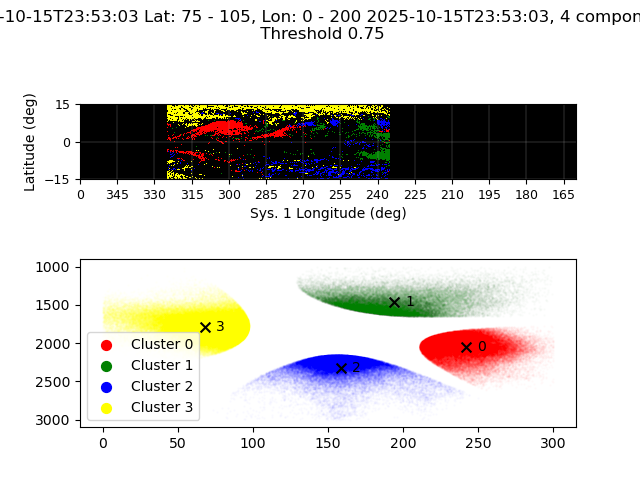
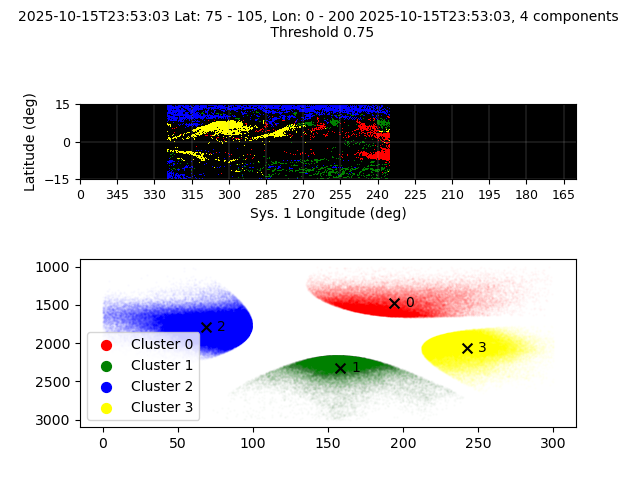
formatting: make figure title fontsize smaller

diff --git a/scripts/processes.py b/scripts/processes.py
@@ -24,7 +24,7 @@ def output_cluster_map_and_plot(date, keywords, param_ranges,
     print("plotting...")
     MP.create_cluster_map(axis[0], n_comp, pred, input_arr, subset_shape, latRng, lngRng, cmap, cm_num)
     PL.create_cluster_plot(axis[1],  keywords, 0, 1, input_arr, pred,  n_comp, cov_type, latRng, lngRng, cmap, cm_num)
-    fig.suptitle(create_plot_title(keywords, latRng, lngRng, n_comp, threshold))
+    fig.suptitle(create_plot_title(keywords, latRng, lngRng, n_comp, threshold), fontsize = 10)
     indices = input_arr[:, input_arr.shape[1] - 1]
 
     STAT.get_all_stats(pred, keywords, indices, n_comp, latRng, lngRng, cm_num)
@@ -66,7 +66,7 @@ def output_cluster_map_and_plots(date, keywords, param_ranges,
     PL.create_cluster_plot(axis[1],  keywords, 0, 1, input_arr, pred,  n_comp, cov_type, latRng, lngRng, cmap, cm_num)
     PL.create_cluster_plot(axis[2],  keywords, 2, 3, input_arr, pred,  n_comp, cov_type, latRng, lngRng, cmap, cm_num)
 
-    fig.suptitle(create_plot_title(keywords, latRng, lngRng, n_comp, threshold))
+    fig.suptitle(create_plot_title(keywords, latRng, lngRng, n_comp, threshold), fontsize = 10)
     output_file_name = create_file_name(keywords, latRng, lngRng, n_comp, "map_plots", cm_num, threshold)
     fig.savefig(output_file_name) 
 
@@ -83,7 +83,7 @@ def output_cluster_map(date, keywords, param_ranges,
     print("plotting...")
     fig, axis = pl.subplots(1, 1)
     MP.create_cluster_map(axis, n_comp, pred, input_arr, subset_shape, latRng, lngRng, cmap, cm_num)
-    fig.suptitle(create_plot_title(keywords, latRng, lngRng, n_comp, threshold))
+    fig.suptitle(create_plot_title(keywords, latRng, lngRng, n_comp, threshold), fontsize = 10)
     output_file_name = create_file_name(keywords, latRng, lngRng, n_comp, "cluster_map", cm_num, threshold)
     fig.savefig(output_file_name)
 
@@ -101,7 +101,7 @@ def output_cluster_plot(date, keywords, param_ranges,
     print("plotting...")
     fig, axis = pl.subplots(1, 1)
     PL.create_cluster_plot(axis, keywords, 0, 1, input_arr, pred,  n_comp, cov_type, latRng, lngRng, cmap, cm_num)
-    fig.suptitle(create_plot_title(keywords, latRng, lngRng, n_comp, threshold))
+    fig.suptitle(create_plot_title(keywords, latRng, lngRng, n_comp, threshold), fontsize = 10)
     output_file_name = create_file_name(keywords, latRng, lngRng, n_comp, "cluster plot", cm_num, threshold)
     fig.savefig(output_file_name)
 
@@ -140,7 +140,7 @@ def create_map_comparison(date, keywords, param_ranges,
     MP.create_cluster_map(axis[0], n_comp, pred, input_arr, subset_shape, latRng, lngRng, cmap, cm_num, fig, True)
     MP.plot_patch(cloud_map, latRng, lngRng, "Blues", axis[1], param_ranges[0][0], param_ranges[0][1],  "Cloud Pressure", cm_num, fig, True)
     MP.plot_patch(amm_map, latRng, lngRng, "terrain_r", axis[2], param_ranges[1][0], param_ranges[1][1], "Ammonia", cm_num, fig, True)
-    fig.suptitle(create_plot_title(keywords, latRng, lngRng, n_comp, threshold))
+    fig.suptitle(create_plot_title(keywords, latRng, lngRng, n_comp, threshold), fontsize = 10)
     output_file_name = create_file_name(keywords, latRng, lngRng, n_comp, "map_comparison", cm_num, threshold)
     fig.savefig(output_file_name)
 
